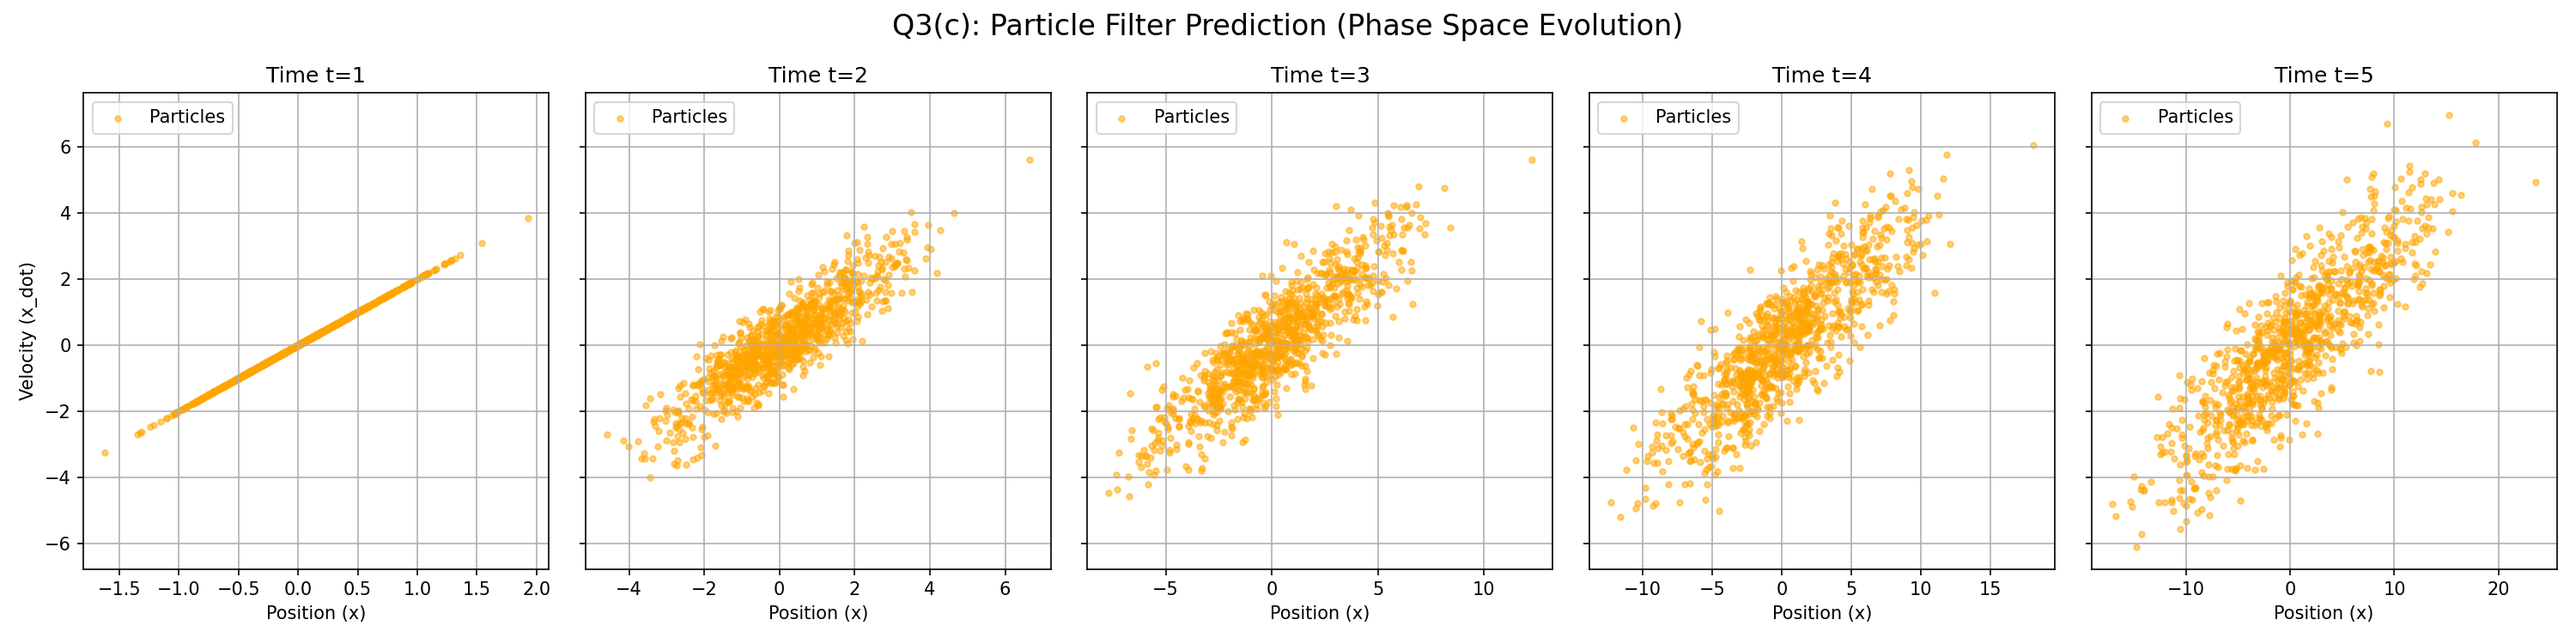
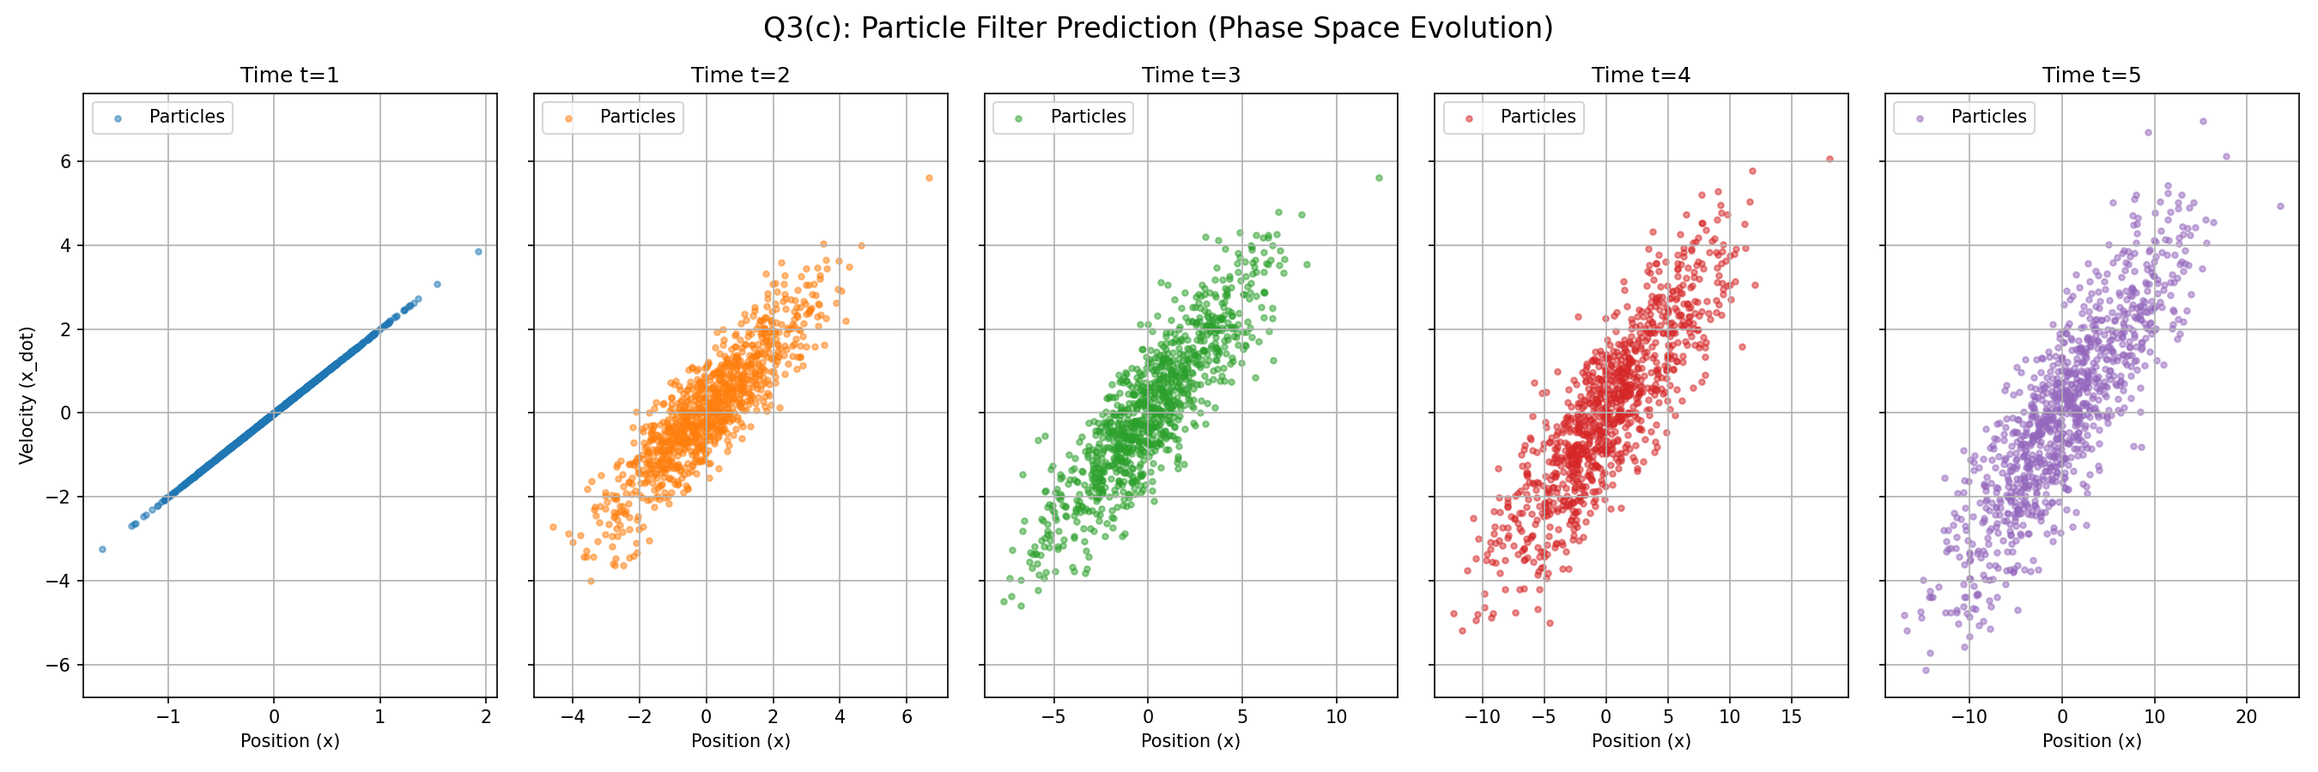
Enhance Q3 visualizations: Adjust subplot sizes, implement distinct colors for particle plots, and improve legend management; update q3_plot1 and q3_plot2; remove outdated q3_plot3.

Changed region(s): [[0.0, 0.092, 0.9956, 0.9813], [0.3422, 0.0, 0.6844, 0.0613]]

diff --git a/homework3/q3_sol.py b/homework3/q3_sol.py
@@ -98,16 +98,23 @@ true_path = np.array(true_path)
 print("Generating Q3(c) Prediction Plots...")
 particles = np.zeros((N, 2)) # Init at 0,0
 
-fig_c, axes_c = plt.subplots(1, 5, figsize=(20, 5), sharey=True)
+fig_c, axes_c = plt.subplots(1, 5, figsize=(18, 6), sharey=True)
 fig_c.suptitle("Q3(c): Particle Filter Prediction (Phase Space Evolution)", fontsize=16)
+
+# Define 5 distinct base colors (from a colormap)
+cmap = plt.get_cmap('tab10')
+colors = [cmap(i) for i in range(5)]
 
 for t in range(5):
     # Motion Update
     particles = sample_motion_model(particles, dt, sigma_acc)
 
+    # Select base color for this time step
+    base_color = colors[t]
+
     # Plotting
     ax = axes_c[t]
-    ax.scatter(particles[:, 0], particles[:, 1], s=10, color='orange', alpha=0.5, label='Particles')
+    ax.scatter(particles[:, 0], particles[:, 1], s=10, color=base_color, alpha=0.5, label='Particles')
     ax.set_title(f"Time t={t+1}")
     ax.set_xlabel("Position (x)")
     if t == 0: ax.set_ylabel("Velocity (x_dot)")
@@ -129,8 +136,12 @@ print("Generating Q3(d) Update Plots...")
 # Reset particles
 particles = np.zeros((N, 2))
 
-fig_d, axes_d = plt.subplots(1, 5, figsize=(20, 5), sharey=True)
+fig_d, axes_d = plt.subplots(1, 5, figsize=(18, 6), sharey=True)
 fig_d.suptitle("Q3(d): Prediction vs Correction (Measurement Update)", fontsize=16)
+
+# Define 5 distinct base colors (from a colormap)
+cmap = plt.get_cmap('tab20')
+colors = [cmap(i) for i in range(10)]
 
 for t in range(5):
     z = measurements[t]
@@ -138,9 +149,20 @@ for t in range(5):
     # 1. Prediction (Prior)
     particles_bar = sample_motion_model(particles, dt, sigma_acc)
 
-    # Plot Prediction (Low Alpha, Red)
+    # Select colors for this time step
+    front_color = colors[2 * t]
+    back_color = colors[2 * t + 1]
+
+    # Plot Prediction (Low Alpha, same color)
     ax = axes_d[t]
-    ax.scatter(particles_bar[:, 0], particles_bar[:, 1], s=15, color='red', alpha=0.15, label='Prediction (Prior)')
+    ax.scatter(
+        particles_bar[:, 0],
+        particles_bar[:, 1],
+        s=15,
+        color=back_color,
+        alpha=0.4,
+        label='Prediction (Prior)' if t == 0 else None,
+    )
 
     # 2. Weighting
     weights = measurement_model(z, particles_bar, sigma_meas)
@@ -148,23 +170,40 @@ for t in range(5):
     # 3. Resampling (Posterior)
     particles = low_variance_sampler(particles_bar, weights)
 
-    # Plot Correction (High Alpha, Blue)
-    ax.scatter(particles[:, 0], particles[:, 1], s=15, color='blue', alpha=0.6, label='Correction (Posterior)')
+    # Plot Correction (High Alpha, same color)
+    ax.scatter(
+        particles[:, 0],
+        particles[:, 1],
+        s=15,
+        color=front_color,
+        alpha=0.8,
+        label='Correction (Posterior)' if t == 0 else None,
+    )
 
-    # Plot Measurement Line
-    ax.axvline(z, color='green', linestyle='--', linewidth=2, label=f'Meas z={z:.1f}')
+    # Plot Measurement Line (optional: only label once)
+    ax.axvline(
+        z,
+        color='green',
+        linestyle='--',
+        linewidth=2,
+        label=f'Meas z={z:.1f}' if t == 0 else None,
+    )
 
-    # Plot True State
-    ax.plot(true_path[t+1, 0], true_path[t+1, 1], 'k*', markersize=12, label='Truth')
+    # Plot True State (optional: only label once)
+    ax.plot(
+        true_path[t+1, 0],
+        true_path[t+1, 1],
+        'k*',
+        markersize=12,
+        label='Truth' if t == 0 else None,
+    )
 
     ax.set_title(f"t={t+1}")
     ax.set_xlabel("Position (x)")
-    if t == 0: ax.set_ylabel("Velocity (x_dot)")
-    ax.grid(True)
-
-    # Only add legend to the first plot to reduce clutter
     if t == 0:
+        ax.set_ylabel("Velocity (x_dot)")
         ax.legend(loc='upper left', fontsize='small')
+    ax.grid(True)
 
 plt.tight_layout()
 plt.savefig(outdir / 'q3_plot2.png', dpi=150)
